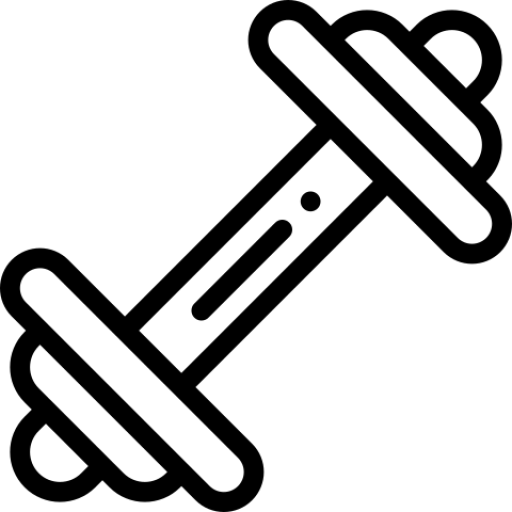
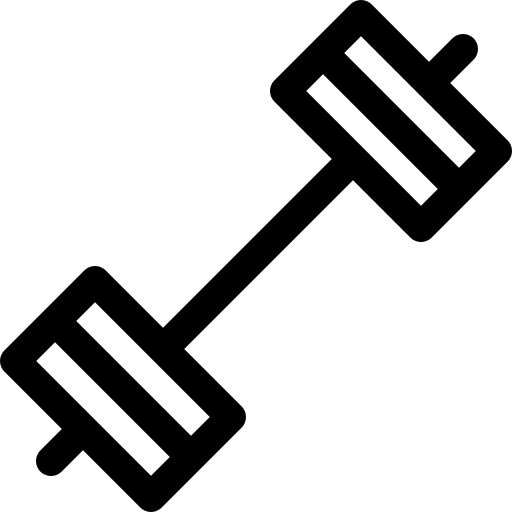
noti

diff --git a/lib/main.dart b/lib/main.dart
@@ -1,10 +1,9 @@
 import 'dart:async';
 import 'package:firebase_core/firebase_core.dart';
+import 'package:firebase_messaging/firebase_messaging.dart';
 
 import 'package:flutter/material.dart';
 import 'package:lift_app/alert_dialog.dart';
-import 'package:lift_app/cards.dart';
-import 'package:lift_app/days_tabs.dart';
 import 'package:lift_app/login.dart';
 import 'package:lift_app/models/user.model.dart';
 import 'package:lift_app/rutine_cards.dart';
@@ -12,7 +11,7 @@ import 'package:cloud_firestore/cloud_firestore.dart';
 import 'package:localstorage/localstorage.dart';
 import 'package:rxdart/rxdart.dart';
 
-Future<void> main() async {
+/* Future<void> main() async {
   final FirebaseApp app = await FirebaseApp.configure(
     name: 'liftApp-flutter',
     options: const FirebaseOptions(
@@ -25,7 +24,9 @@ Future<void> main() async {
   final Firestore firestore = Firestore(app: app);
   await firestore.settings(timestampsInSnapshotsEnabled: true);
   runApp(MyApp());
-}
+} */
+
+void main() => runApp(MyApp());
 
 // TODO: Make a general theme obs
 
@@ -38,6 +39,7 @@ class MyApp extends StatelessWidget {
       debugShowCheckedModeBanner: false,
       theme: ThemeData(
         brightness: Brightness.dark,
+
         primarySwatch: Colors.deepPurple,
         // #BA68C8 o c678dd
         accentColor: Color(0xFFc678dd),
@@ -73,6 +75,10 @@ class _MyHomePageState extends State<MyHomePage> {
   BehaviorSubject _user$ = BehaviorSubject.seeded(false);
   Map<String, dynamic> routine;
   // BehaviorSubject exSelect$ = BehaviorSubject.seeded(false);
+  // Global key
+  final GlobalKey<ScaffoldState> _scaffoldKey = new GlobalKey<ScaffoldState>();
+  // Firebase Msg
+  FirebaseMessaging _firebaseMessaging = new FirebaseMessaging();
 
   int currentDay;
   int currentPage = 0;
@@ -87,7 +93,7 @@ class _MyHomePageState extends State<MyHomePage> {
     {'name': 'Miercoles', 'id': 2},
     {'name': 'Jueves', 'id': 3},
     {'name': 'Viernes', 'id': 4},
-    // {'name': 'Sabado', 'id': 5},
+    {'name': 'Sabado', 'id': 5},
     // {'name': 'Domingo', 'id': 6},
   ];
   // otra forma
@@ -105,6 +111,36 @@ class _MyHomePageState extends State<MyHomePage> {
     } else {
       currentDay = getCurrentDate - 1;
     }
+    // Listen changes
+    _user$.stream.listen((data) {
+      // Map<String, dynamic> res = data;
+      if (data != false) {
+        if (data['routine'] != null) {
+          _checkEndDate(data['routine']['endDate']);
+        }
+      }
+    });
+    // firebase msg
+    _firebaseMessaging.configure(
+      onMessage: (Map<String, dynamic> message) async {
+        print("onMessage: $message");
+        showInSnackBar('Tienes una nueva rutina 📥');
+      },
+      onLaunch: (Map<String, dynamic> message) async {
+        print("onLaunch: $message");
+        showInSnackBar('Tienes una nueva rutina 📥');
+      },
+      onResume: (Map<String, dynamic> message) async {
+        print("onResume: $message");
+        showInSnackBar('Tienes una nueva rutina 📥');
+      },
+    );
+    /* _firebaseMessaging.getToken().then((String token) {
+      setState(() {
+        var homeScreenText = "Push Messaging token: $token";
+        print(homeScreenText);
+      });
+    }); */
   }
 
   get getCurrentDate {
@@ -114,18 +150,35 @@ class _MyHomePageState extends State<MyHomePage> {
   // Verifica nueva rutina
 
   _checkNewRoutine() {
-    print(_user$.value['routine']['startDate']);
-    Firestore.instance
-        .collection('routines')
-        .where("uid", isEqualTo: userIdFirebase)
-        .where("startDate", isEqualTo: _user$.value['routine']['startDate'])
-        .snapshots()
-        .listen((data) {
-      print('getLastRolutine');
-      print(data.documents.isNotEmpty);
+    if (_user$.value['routine'] != null) {
+      Firestore.instance
+          .collection('routines')
+          .where("uid", isEqualTo: userIdFirebase)
+          .where("startDate", isEqualTo: _user$.value['routine']['startDate'])
+          .snapshots()
+          .listen((data) {
+        toogleCloud(data.documents.isEmpty);
+      });
+    }
+  }
 
-      toogleCloud(data.documents.isEmpty);
-    });
+  _checkEndDate(dateFb) {
+    // print(new DateTime.now().millisecondsSinceEpoch);
+    var dateNow = DateTime.now().millisecondsSinceEpoch;
+    if (dateFb < dateNow) {
+      showInSnackBar('Ya toca cambio de rutina 📅 ');
+    }
+  }
+
+  void showInSnackBar(String value) {
+    _scaffoldKey.currentState.showSnackBar(SnackBar(
+      content: Text(
+        value,
+        style: TextStyle(color: Colors.black),
+      ),
+      backgroundColor: Colors.white70,
+      duration: Duration(seconds: 3),
+    ));
   }
 
   void toogleCloud(data) {
@@ -150,7 +203,6 @@ class _MyHomePageState extends State<MyHomePage> {
   }
 
 // FIREBASE
-// todo localstore
   get userIdFirebase => _user$.value['id'];
 
   _getRoutines() {
@@ -195,6 +247,8 @@ class _MyHomePageState extends State<MyHomePage> {
   }
 
   _logoutLocalUser() {
+    // unsubs FB Msg
+    _firebaseMessaging.unsubscribeFromTopic('topic-$userIdFirebase');
     _user$.add(false);
     storage.deleteItem('user_login');
     storageRutines.deleteItem('user_rutines');
@@ -217,6 +271,8 @@ class _MyHomePageState extends State<MyHomePage> {
     _addToLocalUser(id);
     _user$.add({'id': id});
     _getRoutines();
+    // topic FB MSG
+    _firebaseMessaging.subscribeToTopic('topic-$id');
   }
 
   _getblocks(dayNumber) {
@@ -251,6 +307,33 @@ class _MyHomePageState extends State<MyHomePage> {
         blocks, days, currentDay, currentPage, _callbackPage, _callback);
   }
 
+  Widget emptyData() {
+    return Container(
+      child: Padding(
+        padding: EdgeInsets.all(25.0),
+        child: Column(
+          mainAxisAlignment: MainAxisAlignment.center,
+          crossAxisAlignment: CrossAxisAlignment.center,
+          children: <Widget>[
+            Text(
+              "No hay rutinas registradas",
+              style: TextStyle(fontSize: 28),
+            ),
+            Image(image: AssetImage('assets/gym.png'))
+          ],
+        ),
+      ),
+    );
+  }
+
+  Widget loadStatus() {
+    return Center(
+      child: Container(
+        child: Text('Cargando...'),
+      ),
+    );
+  }
+
   Widget reqForUserLogin() {
     return Login(_getUserFirebase);
     /*  return Center(
@@ -277,6 +360,7 @@ class _MyHomePageState extends State<MyHomePage> {
   @override
   Widget build(BuildContext context) {
     return Scaffold(
+      key: _scaffoldKey,
       appBar: AppBar(
         title: Text(
           widget.title,
@@ -288,6 +372,7 @@ class _MyHomePageState extends State<MyHomePage> {
             opacity: hasNewRutine ? 1.0 : 0.0,
             child: IconButton(
               icon: Icon(Icons.cloud_download),
+              color: Colors.greenAccent,
               onPressed: () {
                 _getRoutines();
                 toogleCloud(false);
@@ -318,30 +403,29 @@ class _MyHomePageState extends State<MyHomePage> {
                         'id': storage.getItem('user_login'),
                         'routine': storageRutines.getItem('user_rutines')
                       });
+                      // check new routine
                       _checkNewRoutine();
-                      // print(new DateTime.now().millisecondsSinceEpoch);
-                      return new Container(width: 0.0, height: 0.0);
+
+                      return loadStatus();
                     }
                   } else {
                     routine = snap.data['routine'];
                     _addToLocalUser(snap.data['id']);
-                    if (routine.isNotEmpty) {
+                    if (routine != null && routine.isNotEmpty) {
+                      // check endDate
                       blocks = _getblocks(currentDay);
+                      return normalData();
+                    } else {
+                      return emptyData();
                     }
-
-                    return normalData();
                   }
                 } else {
-                  return new Container(width: 0.0, height: 0.0);
+                  return loadStatus();
                 }
               },
             );
           } else {
-            return Center(
-              child: Container(
-                child: Text('Cargando...'),
-              ),
-            );
+            return loadStatus();
           }
         },
       ),

diff --git a/lib/login.dart b/lib/login.dart
@@ -15,10 +15,11 @@ class Login extends StatefulWidget {
 class _LoginState extends State<Login> with SingleTickerProviderStateMixin {
   AnimationController _controller;
   Animation _animation;
+  Timer _timer;
   final FlareControls _controlsF = FlareControls();
   @override
   void initState() {
-    Timer.periodic(new Duration(seconds: 5), (timer) {
+    _timer = Timer.periodic(new Duration(seconds: 5), (timer) {
       setState(() {
         _controlsF.play('go');
       });
@@ -32,11 +33,11 @@ class _LoginState extends State<Login> with SingleTickerProviderStateMixin {
   @override
   void dispose() {
     _controller.dispose();
+    _timer.cancel();
     super.dispose();
   }
 
   _showAlertLoginUser() {
-    print('tap');
     ShowAlert().newUser(context).then((User value) {
       widget.callbackRes(value);
     });

diff --git a/lib/alert_dialog.dart b/lib/alert_dialog.dart
@@ -61,7 +61,7 @@ class ShowAlert {
                               return 'Anota Nombre';
                             }
                           },
-                          onSaved: (val) => newUser.name = val,
+                          onSaved: (val) => newUser.name = val.trim(),
                         ),
                         TextFormField(
                           decoration: InputDecoration(
@@ -72,7 +72,7 @@ class ShowAlert {
                               return 'Anota Apellido';
                             }
                           },
-                          onSaved: (val) => newUser.lastName = val,
+                          onSaved: (val) => newUser.lastName = val.trim(),
                         ),
                       ],
                     ),

diff --git a/lib/cards.dart b/lib/cards.dart
@@ -120,9 +120,11 @@ class _CardsState extends State<Cards> with SingleTickerProviderStateMixin {
     } else if (muscle == 'triceps') {
       return 'triceps.png';
     } else if (muscle == 'hombro') {
-      return 'fitness.png';
+      return 'barbell.png';
     } else if (muscle == 'pecho') {
       return 'chest.png';
+    } else if (muscle == 'espalda') {
+      return 'back.png';
     }
   }
 

diff --git a/README.md b/README.md
@@ -11,6 +11,14 @@ A few resources to get you started if this is your first Flutter project:
 - [Lab: Write your first Flutter app](https://flutter.io/docs/get-started/codelab)
 - [Cookbook: Useful Flutter samples](https://flutter.io/docs/cookbook)
 
-For help getting started with Flutter, view our 
-[online documentation](https://flutter.io/docs), which offers tutorials, 
+For help getting started with Flutter, view our
+[online documentation](https://flutter.io/docs), which offers tutorials,
 samples, guidance on mobile development, and a full API reference.
+
+- Flutter Icons
+  [flutter_launcher_icons](https://pub.dartlang.org/packages/flutter_launcher_icons)
+
+```shell
+    flutter packages get
+    flutter packages pub run flutter_launcher_icons:main
+```
